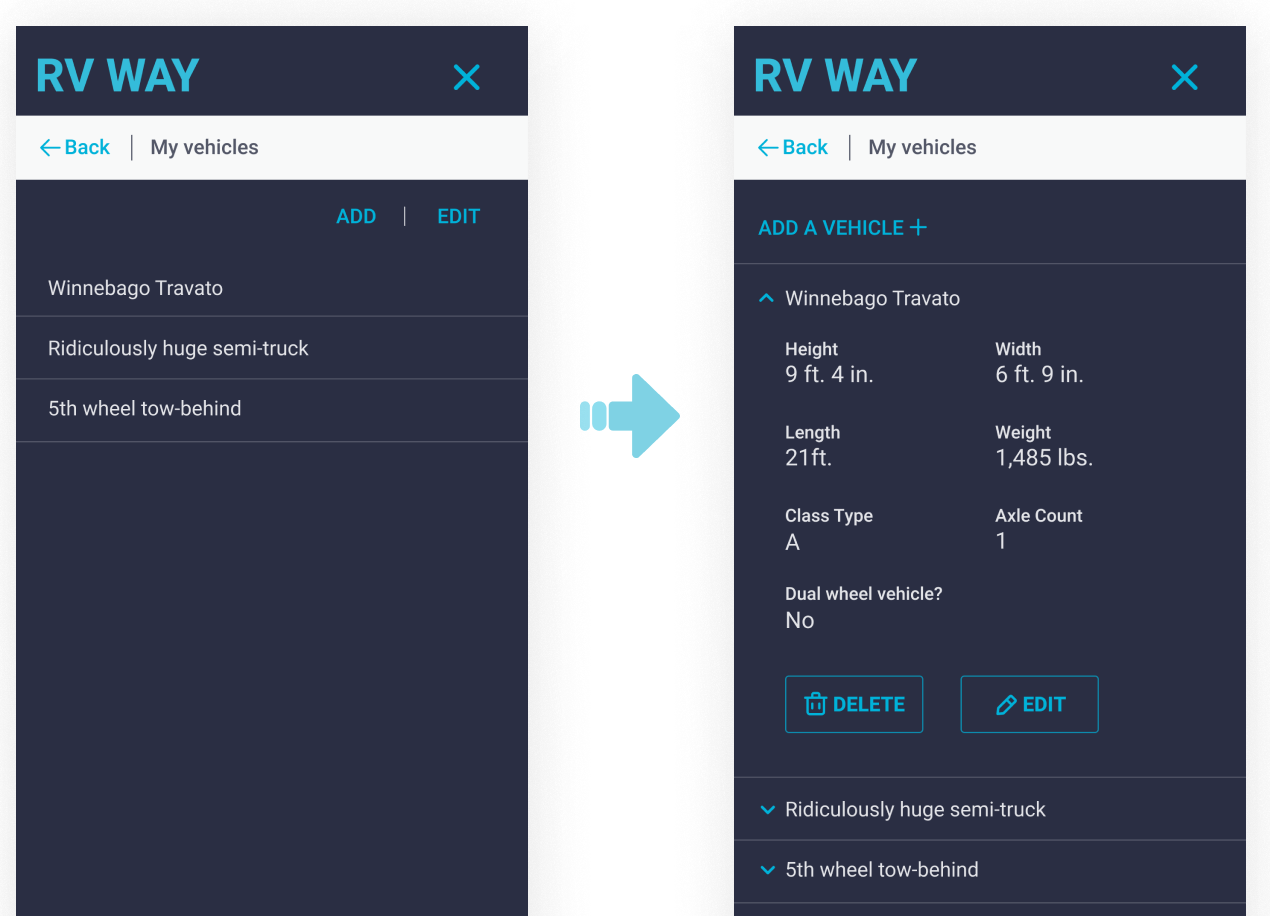
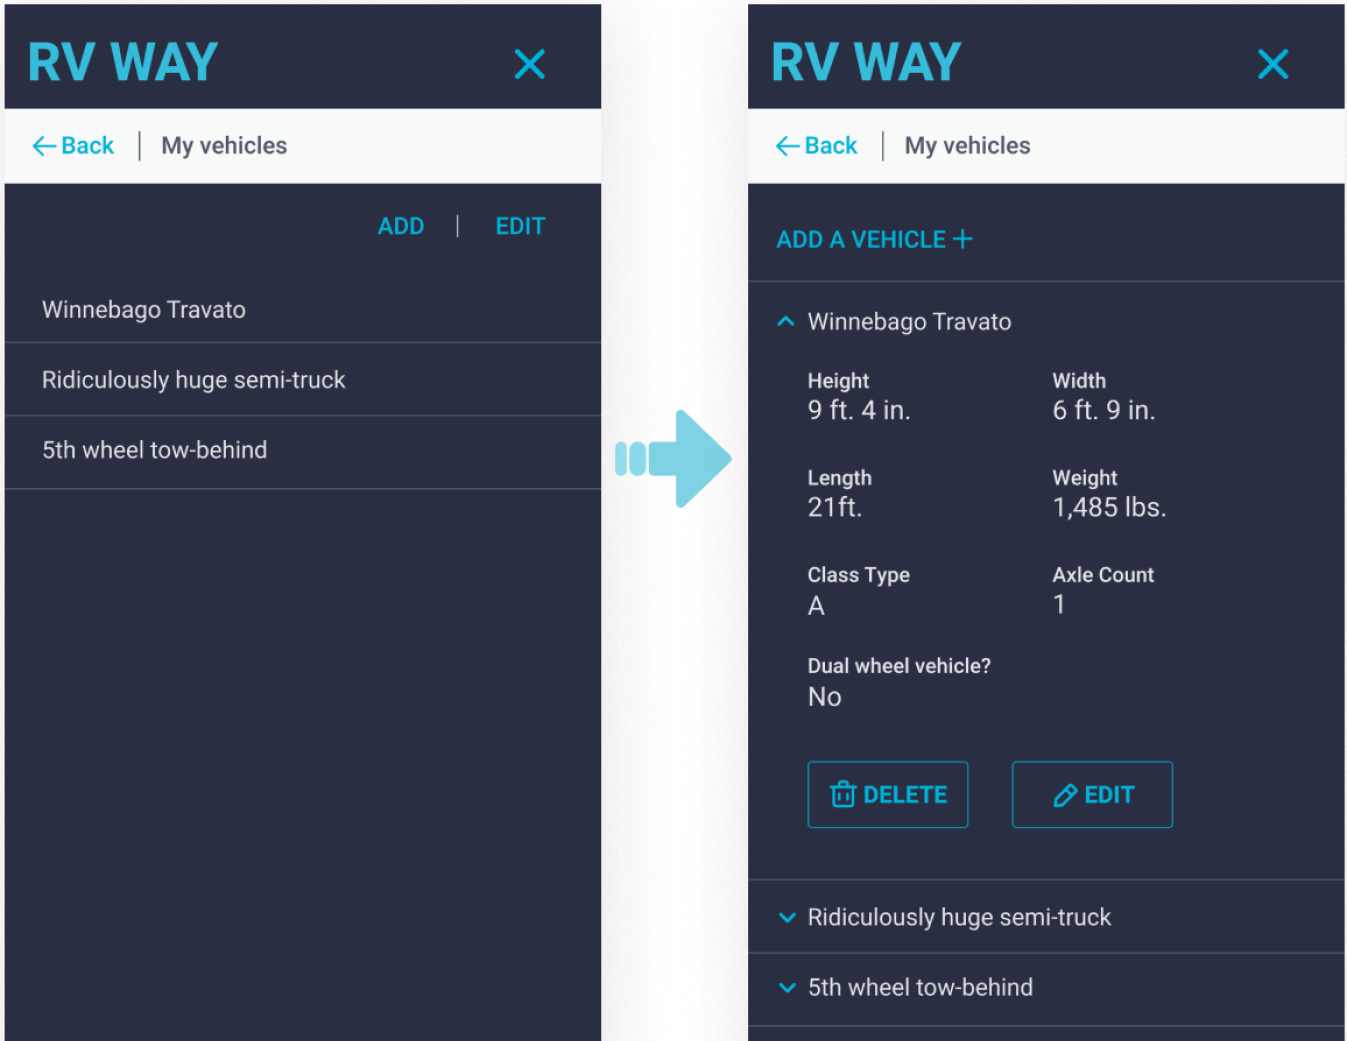
adjust images

Changed region(s): [[0.0, 0.0, 1.0, 1.0], [0.7677, 0.3362, 0.8598, 0.5197], [0.7677, 0.5502, 0.8598, 0.5808]]

diff --git a/rvway.html b/rvway.html
@@ -234,12 +234,12 @@
                 <h4>The hamburger menu</h4>
                 <p>This was really a surprising discovery for us and one that we didn’t really expect. It was a typical case of “you are not your user.” For the internet savvy generation, this might be a typical element of interaction but for our demographic, it was an unfamiliar symbol. The first symbol that we used was not the usual bread-meat-bread hamburger menu. We found that our users didn’t really know what the symbol meant. It also kind of looked like a logo so they didn’t know to click on it that‘s why we went back to the typical equal horizontal lines.</p>
                 <div class="figure overflow-x">
-                    <img src="images/menu-iteration.png" alt="">
+                    <img id="menu-img" src="images/menu-iteration.png" alt="">
                 </div>
                 <h4>Vehicle interaction</h4>
                 <p>Instead of showing just a list of the name of the vehicles that the user would need to click for them to see the details, we designed an interaction where all the details can be shown and hidden by expanding/collapsing each of vehicle without taking them to another page.</p>
                 <div class="figure overflow-x">
-                    <img src="images/addvehicle-iteration.png" alt="">
+                    <img id="addvehicle-img" src="images/addvehicle-iteration.png" alt="">
                 </div>
                 <h4>Directions page</h4>
                 <p>To help users remember what vehicle that they are routing with, we added some sort of breadcrumb so they can see the vehicle they are using for that route.</p>

diff --git a/less/rvway.less b/less/rvway.less
@@ -1,11 +1,6 @@
 @import "variables2.less";
 @import "styles.less";
 
-::-webkit-scrollbar {
-  width: 0px;
-  background: transparent; /* make scrollbar transparent */
-}
-
 nav {
   a {
     color: #868996;
@@ -115,6 +110,13 @@ nav {
     }
   }
 }
+//Media Query 400px {
+  @media (max-width: 400px) {
+    ::-webkit-scrollbar {
+      width: 0px;
+      background: transparent; /* make scrollbar transparent */
+    }
+  }
 
 // Main - case study content
 main {
@@ -160,6 +162,9 @@ main {
       margin-bottom: 2rem;
       img {
         width: 900px;
+      }
+      #addvehicle-img, #menu-img {
+        width: 600px !important;
       }
     }
     //Project background
